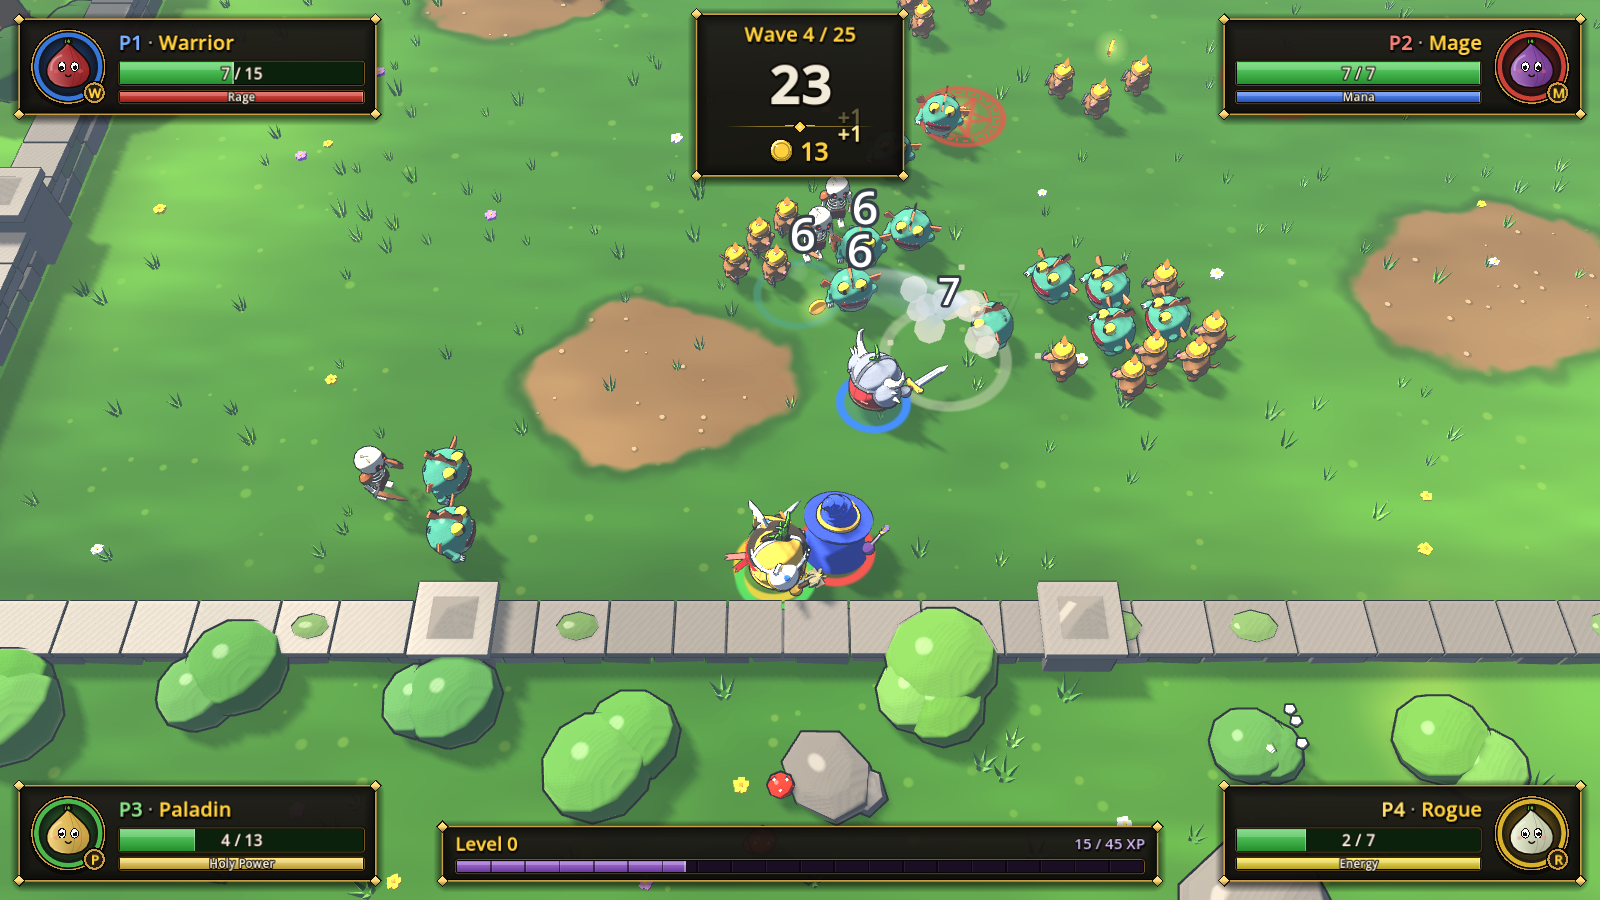
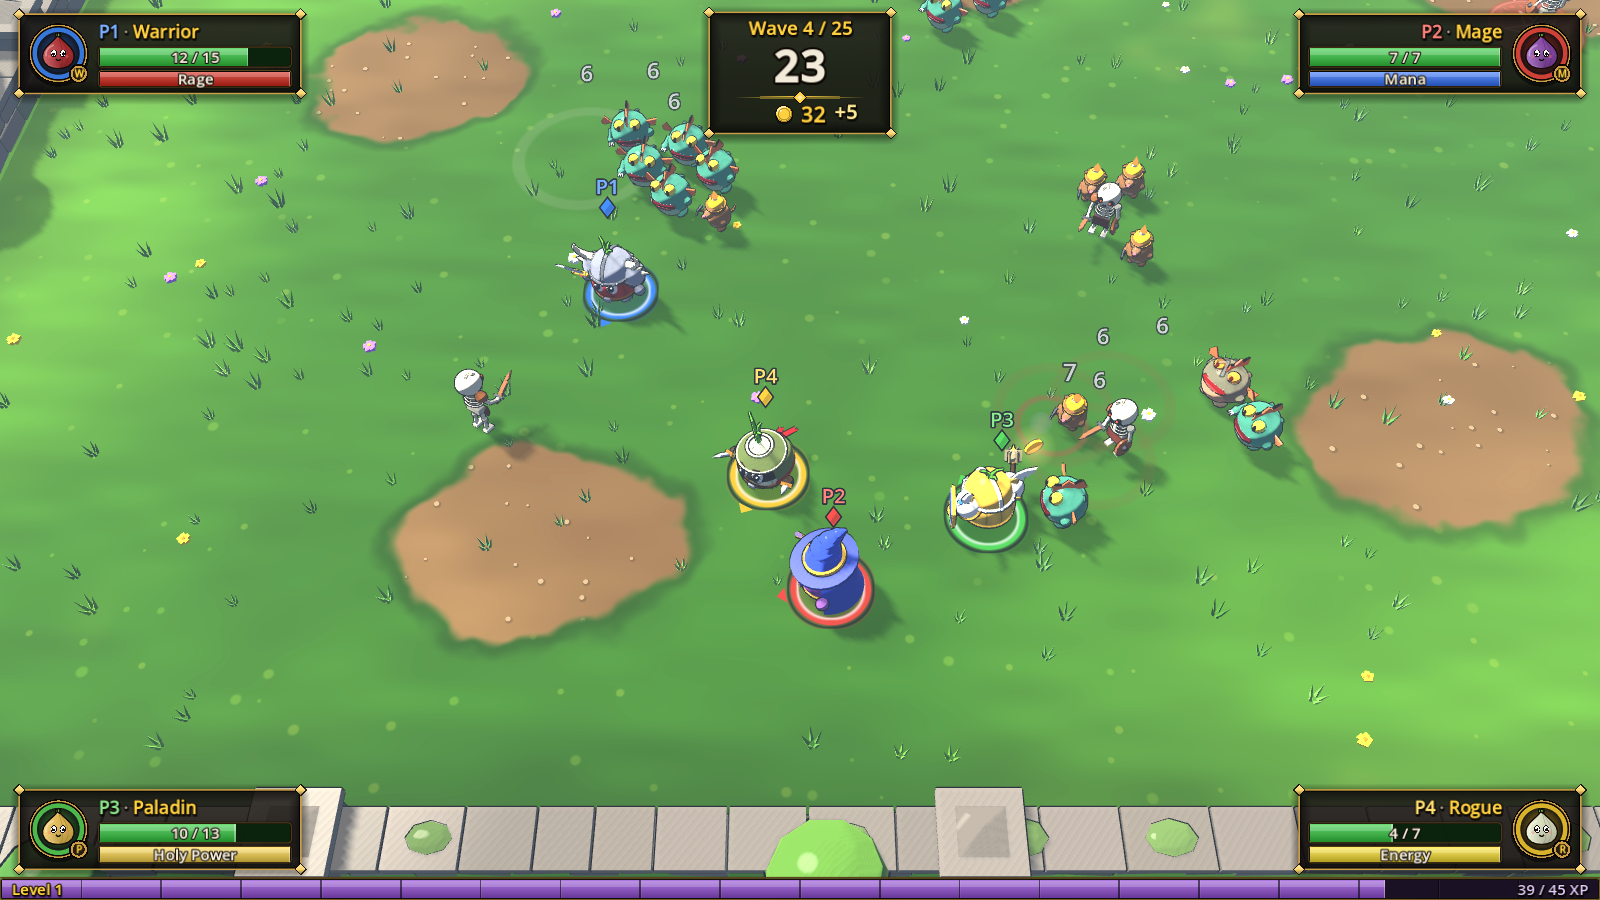
Docs: how to run and play locally, co-op/determinism architecture notes
Claude-Session: https://claude.ai/code/session_01N5df4hKuxXpYDQ7RPCfU8h

diff --git a/docs/ARCHITECTURE.md b/docs/ARCHITECTURE.md
@@ -57,7 +57,11 @@ the new screen never sees the button press that closed the old one.
    LOBBY, Quit → quit.
 2. **LOBBY** – the Lobby owns `PlayerManager.joining_enabled`. Each slot picks a class (◀ ▶),
    readies with A, leaves with B. All joined players ready → countdown → `start_requested`
-   → run. B with nobody joined → MENU.
+   → run (a new join or an unready cancels the countdown). B with nobody joined → MENU.
+   The join press is swallowed (`PlayerInput.swallow()`): it never also readies the player,
+   and navigation waits until the stick is neutral. Slots of unplugged pads are pruned
+   (`PlayerManager.prune_disconnected()`) when the lobby opens / resets and every frame
+   while it is open, so a dead controller can never block the countdown or Back.
 3. **RUN / WAVE n** – `RunState.start_run(count, seed)`, `Arena.create()`,
    `WaveDirector.create(arena)`, one `Player.create(slot)` per slot under `arena.entities`
    (`Main._spawn_player` is the single place a slot becomes a hero – the future M9 loadout
@@ -83,8 +87,15 @@ the new screen never sees the button press that closed the old one.
    `GameOverScreen.open(victory)`. A / START → **LOBBY with the same players** (ready again);
    the main menu only through the lobby's Back.
 6. START on any player's device during WAVE / WAVE_END → PauseMenu (`get_tree().paused`).
-   Resume unpauses; "Quit to Menu" ends the run (`RunState.end_run(false)`) and goes to MENU.
-   `PlayerManager.device_disconnected` during a run → pause + HUD notice;
+   The menu ignores navigation until the stick has been neutral once (`PlayerInput.nav_held()`),
+   so a stick held during play cannot move the selection. Resume unpauses; "Quit to Menu"
+   needs a second press ("Are you sure? Press again") and then ends the run
+   (`RunState.end_run(false)`) and goes to MENU.
+   **Disconnects:** `PlayerManager.device_disconnected` during a run → pause + HUD notice;
+   a wave never starts while a joined pad is unplugged (`Main.start_wave` pauses at once).
+   While any joined pad is unplugged, START / B / Resume do nothing; the PauseMenu offers
+   "Continue without Pn" → `Main.drop_player(slot)` frees that hero, `PlayerManager.leave`,
+   rebinds the HUD and resumes (nobody left → LOBBY; the rest all downed → defeat).
    `device_reconnected` → notice hidden (the player resumes with START).
 7. `RunState.leveled_up` during a wave → `Vfx.level_up_burst` on every living player (the HUD
    shows the "LEVEL UP!" banner by itself; each Player grows its temporary `&"level"` bonus,
@@ -162,6 +173,11 @@ grouped by living enemies (`RunPerf`): `physics_ms_avg`, `physics_ms_at_peak` (t
 the last second). Each cleared wave also prints a `SMOKE wave n cleared ...` line.
 Bots (`BotInput`) kite by weapon reach (melee heroes close in, back off when hurt or
 crowded), avoid walls, stay near the team and run to downed teammates when it is safe.
+**Determinism:** bots decide in `BotInput.think(delta)`, called by
+`PlayerManager._physics_process` once per unpaused physics tick (`process_physics_priority`
+-1000, before the heroes move); `poll()` only handles per-frame button / nav edges. Main
+counts `WAVE_END_DELAY` in physics ticks. The same `--seed` therefore reproduces a smoke run
+exactly (same kills, gold, downs).
 
 Screenshots of every screen: `docs/screenshots/{menu,lobby,gameplay,intermission,game_over}.png`
 (`--view=lobby --players=3`, `--demo --seed=5 --start-wave=4 --shot-time=12`,
@@ -230,8 +246,13 @@ Screenshots of every screen: `docs/screenshots/{menu,lobby,gameplay,intermission
   A "Next wave in 42 s" line counts down `Intermission.auto_continue_time` (static setting,
   default 60 s, ≤ 0 = off and hidden – the settings menu comes later); at 0 it emits
   `continue_requested` without the stragglers.
-  PauseMenu: `process_mode` ALWAYS, only the pausing player navigates, their B or any
-  player's START resumes; it hides itself when it emits. Intermission / Game Over / Pause
+  PauseMenu: `process_mode` ALWAYS, only the pausing player navigates (falls back to any
+  device if that player's own pad is unplugged), their B or any player's START resumes
+  unless a joined pad is unplugged; it hides itself when it emits.
+  GameOverScreen reads only joined slots' inputs while a human with a working device is
+  joined (global `ui_accept` / any pad only with no / bot-only / all-unplugged slots).
+- Keyboard join keys are one constant, `KeyboardInput.JOIN_KEYS` (Enter, Space, Keypad
+  Enter, F) – the same keys as confirm (A). Intermission / Game Over / Pause
   also run with `process_mode` ALWAYS, so Main may pause the tree behind them.
 - `set_backdrop_opacity(alpha)` on MainMenu / Lobby / Intermission / GameOverScreen lets the
   3D scene show through the dark vignette backdrop.

diff --git a/README.md b/README.md
@@ -1,5 +1,45 @@
-# smartonion
+# SmartOnion
 
 Brotato-szerű, WoW-hangulatú arena survivor Godot 4-ben, 1–4 fős helyi co-oppal – a hősök hagymák WoW-páncélban.
 
-Tervezés: [docs/GDD.md](docs/GDD.md)
+- Tervezés: [docs/GDD.md](docs/GDD.md)
+- Kódszerkezet: [docs/ARCHITECTURE.md](docs/ARCHITECTURE.md)
+- Képernyőképek: [docs/screenshots/](docs/screenshots/)
+
+## Kipróbálás
+
+1. Töltsd le a **Godot 4.7.2**-t (standard, nem .NET): https://godotengine.org/download
+2. Indítsd el a Godotot, **Import** → válaszd ki ennek a mappának a `project.godot` fájlját → **Import & Edit**.
+   Az első megnyitáskor a Godot pár másodpercig importálja a projektet.
+3. Csatlakoztasd a kontrollereket (Xbox, PlayStation vagy más XInput / SDL-kompatibilis kontroller).
+4. Nyomd meg az **F5**-öt (Run Project).
+
+### Irányítás
+
+| | Kontroller | Billentyűzet |
+|---|---|---|
+| Csatlakozás a lobbyban | A | Enter / Space / F |
+| Kaszt váltása | bal kar / d-pad ◀ ▶ | A / D vagy nyilak |
+| Ready / megerősítés | A | Enter / Space / F |
+| Vissza / unready / kilépés a lobbyból | B | Esc / Backspace |
+| Mozgás | bal kar | WASD / nyilak |
+| Szünet | Start | P / Esc |
+
+A fegyverek automatikusan támadnak. Elesett társat úgy lehet feléleszteni, hogy 5 másodpercig mellette állsz.
+
+### Ami ebben a verzióban van (M0 + M1)
+
+- **Kör:** főmenü → lobby (1–4 játékos, 5 kaszt) → 25 hullám → győzelem / vereség → lobby.
+- **Harc:** automatikus közelharci és lövedékes fegyverek, 4 ellenségtípus, közös gold és XP.
+- **Co-op:** felélesztés cast barral; kontroller lecsatlakozásakor szünet.
+
+A bolt, az itemek, a loot, az abilityk és a talentek a következő mérföldkövekben jönnek (lásd a GDD 16. fejezetét). Addig a hősök szintenként egy kis ideiglenes bónuszt kapnak.
+
+## Fejlesztői parancsok
+
+```bash
+godot --headless --path . --import                                   # import
+godot --headless --path . -s res://tests/run_tests.gd                # unit tesztek
+godot --headless --path . -- --smoke --waves=3                       # 4 botos próbajáték
+godot --path . -- --demo                                             # botok játszanak (nézhető)
+```
